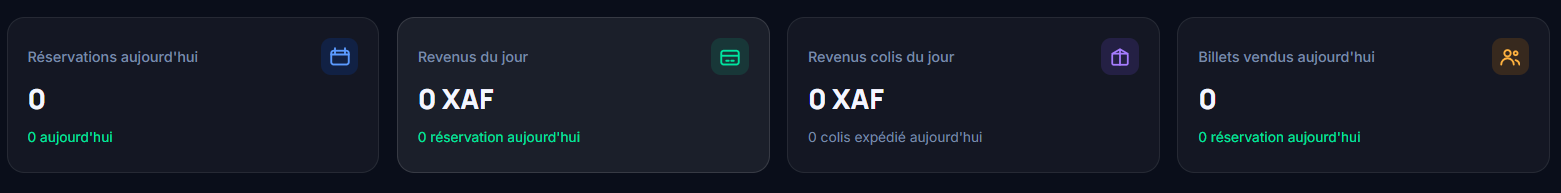
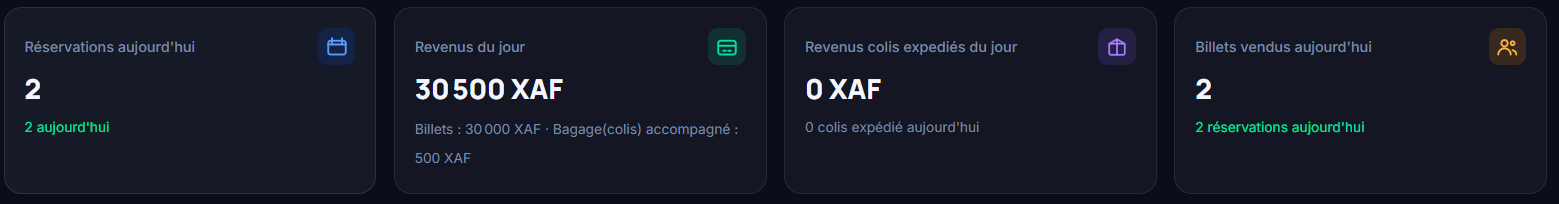
ajout des modifications finales pour capris derbier teste

diff --git a/page-help.js b/page-help.js
@@ -10,7 +10,7 @@ const PAGE_HELP = {
       <ul>
         <li><strong>Réservations aujourd'hui</strong> — nombre de réservations créées aujourd'hui (les annulées ne sont pas comptées).</li>
         <li><strong>Revenus du jour</strong> — total encaissé sur ces réservations du jour.</li>
-        <li><strong>Revenus colis du jour</strong> — total encaissé sur les colis expédiés aujourd'hui, avec le nombre de colis correspondant.</li>
+        <li><strong>Revenus colis expediés du jour</strong> — total encaissé sur les colis expédiés aujourd'hui, avec le nombre de colis correspondant.</li>
         <li><strong>Billets vendus aujourd'hui</strong> — nombre de passagers inclus dans les réservations créées aujourd'hui.</li>
       </ul>
 
@@ -21,7 +21,7 @@ const PAGE_HELP = {
         <span class="guide-img-caption">Exemple des 4 cartes en haut de la page</span>
       </div>
 
-      <p><strong>Dernières réservations</strong> — affiche les 5 réservations confirmées les plus récentes. Un clic dessus ouvre directement son détail. Des alertes s'affichent si un prix a été réduit ou si un passager a été retiré.</p>
+      <p><strong>Dernières réservations</strong> — affiche les 5 réservations confirmées les plus récentes. Un clic dessus ouvre directement son détail complet (organisé en onglets Trajet / Passager(s) / Billet). Des alertes s'affichent si un prix a été réduit ou si un passager a été retiré.</p>
 
       <div class="guide-img-wrap">
         <img src="image-helps/liste-reserve.png" alt="Exemple de la liste des dernières réservations" class="guide-img">
@@ -47,6 +47,95 @@ const PAGE_HELP = {
       </div>
     `
   },
+  'vente-siege': {
+    title: 'Guichet de vente',
+    content: `
+      <p>Cette page permet de <strong>vendre un billet ou d'expédier un colis directement depuis le siège</strong>, sans passer par un point de vente.</p>
+
+      <div class="guide-warning-box">⚠ Contrairement à un PDV, qui ne peut vendre que sur les trajets qui lui sont assignés, le siège a accès à <strong>tous les trajets de l'agence</strong>, sans aucune restriction.</div>
+
+      <p><strong>Deux modes en haut de page :</strong> <strong>Billet</strong> (vendre un passage) et <strong>Colis</strong> (expédier un colis). Le formulaire s'adapte selon le mode choisi.</p>
+
+      <div class="guide-img-wrap">
+        <img src="image-helps/vente-siege-modes-billet-colis.png" alt="Exemple des modes Billet et Colis" class="guide-img">
+        <span class="guide-img-caption">Exemple des deux modes en haut de la page</span>
+      </div>
+
+      <h3>Étape 1 — Point de vente et trajet</h3>
+      <p><strong>Vendre au nom de</strong> — par défaut, la vente est enregistrée comme "Vente directe — Siège". Vous pouvez aussi choisir un PDV existant dans la liste déroulante pour attribuer cette vente à ce point de vente précis (utile si un agent PDV vous appelle pour vendre en son nom, par exemple).</p>
+
+      <div class="guide-img-wrap">
+        <img src="image-helps/vente-siege-pdv-vendeur.png" alt="Exemple du sélecteur PDV vendeur" class="guide-img">
+        <span class="guide-img-caption">Exemple du champ "Vendre au nom de"</span>
+      </div>
+
+      <p><strong>Choisir le trajet</strong> — une barre de recherche permet de filtrer par ville, puis deux boutons permettent de basculer entre trajets <strong>Direct</strong> et <strong>Avec arrêts</strong>. Cliquez sur la carte du trajet souhaité dans la liste qui s'affiche.</p>
+
+      <div class="guide-img-wrap">
+        <img src="image-helps/vente-siege-recherche-trajet.png" alt="Exemple de la recherche et sélection de trajet" class="guide-img">
+        <span class="guide-img-caption">Exemple de la barre de recherche et des cartes de trajets</span>
+      </div>
+
+      <p><strong>Session de départ</strong> — une fois le trajet choisi, la liste des prochains départs disponibles apparaît, avec la date, le bus et les places restantes. Cliquez sur une session pour la sélectionner.</p>
+
+      <div class="guide-warning-box">⚠ Contrairement à un PDV (qui voit un sous-quota de places qui lui est propre), le siège voit toujours le <strong>nombre de places réellement restantes sur tout le bus</strong>, tous vendeurs confondus.</div>
+
+      <div class="guide-img-wrap">
+        <img src="image-helps/vente-siege-sessions-liste.png" alt="Exemple de la liste des sessions disponibles" class="guide-img">
+        <span class="guide-img-caption">Exemple de la liste des sessions de départ disponibles</span>
+      </div>
+
+      <h3>Étape 2 (mode Billet) — Passagers</h3>
+      <p>Ajoutez un ou plusieurs passagers avec le bouton <strong>"Ajouter un passager"</strong>. Pour chaque passager : prénom, nom et type de billet sont obligatoires. Le <strong>téléphone n'est obligatoire que pour le premier passager</strong> (le contact principal de la réservation).</p>
+
+      <div class="guide-img-wrap">
+        <img src="image-helps/vente-siege-passager-form.png" alt="Exemple du formulaire d'un passager" class="guide-img">
+        <span class="guide-img-caption">Exemple du bloc d'informations d'un passager</span>
+      </div>
+
+      <p>En dépliant <strong>"Bagages, siège (facultatif)"</strong> sur chaque passager, vous pouvez renseigner le poids et le nombre de bagages (des frais s'ajoutent automatiquement en cas de dépassement de la limite du trajet), un numéro de siège, et éventuellement un <strong>colis en soute</strong> associé à ce passager (nature, poids, valeur déclarée, prix).</p>
+
+      <div class="guide-img-wrap">
+        <img src="image-helps/vente-siege-bagages-colis-soute.png" alt="Exemple des options bagages et colis en soute" class="guide-img">
+        <span class="guide-img-caption">Exemple des champs bagages et colis en soute dépliés</span>
+      </div>
+
+      <p><strong>Ville de montée et de descente :</strong></p>
+      <ul>
+        <li><strong>Trajet direct</strong> — vous choisissez le PDV d'embarquement et de débarquement parmi ceux assignés au trajet.</li>
+        <li><strong>Trajet avec arrêts</strong> — vous choisissez librement n'importe quel point de montée et de descente parmi le départ, les arrêts et l'arrivée du trajet (le prix se recalcule automatiquement selon le segment parcouru). Un PDV existant à ce point peut être sélectionné, ou laissé comme un lieu libre.</li>
+      </ul>
+
+      <div class="guide-img-wrap">
+        <img src="image-helps/vente-siege-montee-descente-arrets.png" alt="Exemple du choix de montée et descente sur un trajet avec arrêts" class="guide-img">
+        <span class="guide-img-caption">Exemple de la sélection libre montée/descente sur un trajet avec arrêts</span>
+      </div>
+
+      <p>Le <strong>récapitulatif du prix</strong> se met à jour en temps réel en bas du formulaire, passager par passager, jusqu'au total à encaisser. Cliquez sur <strong>"Confirmer la vente"</strong> pour finaliser.</p>
+
+      <div class="guide-img-wrap">
+        <img src="image-helps/vente-siege-recap-prix-billet.png" alt="Exemple du récapitulatif de prix pour un billet" class="guide-img">
+        <span class="guide-img-caption">Exemple du récapitulatif de prix avant confirmation</span>
+      </div>
+
+      <h3>Étape 2 (mode Colis) — Expéditeur, destinataire et colis</h3>
+      <p>Renseignez les coordonnées complètes de l'<strong>expéditeur</strong> et du <strong>destinataire</strong> (nom et téléphone obligatoires pour les deux), puis les détails du colis : nature (obligatoire), poids estimé, valeur déclarée (optionnelle) et prix du transport (obligatoire).</p>
+
+      <div class="guide-img-wrap">
+        <img src="image-helps/vente-siege-colis-form.png" alt="Exemple du formulaire expéditeur, destinataire et colis" class="guide-img">
+        <span class="guide-img-caption">Exemple du formulaire du mode Colis</span>
+      </div>
+
+      <p>Comme pour un billet, vous choisissez le point d'embarquement et de débarquement du colis (PDV ou lieu libre selon le type de trajet). Une fois la vente confirmée, un <strong>code de retrait</strong> est généré — à transmettre au destinataire pour qu'il puisse récupérer le colis à l'arrivée.</p>
+
+      <div class="guide-warning-box">⚠ Après confirmation, le formulaire se réinitialise automatiquement pour une nouvelle vente — pensez à noter ou transmettre le code de retrait affiché avant de continuer.</div>
+
+      <div class="guide-img-wrap">
+        <img src="image-helps/vente-siege-code-retrait.png" alt="Exemple du code de retrait généré après expédition" class="guide-img">
+        <span class="guide-img-caption">Exemple du code de retrait affiché après confirmation d'un colis</span>
+      </div>
+    `
+  },
   reservations: {
     title: 'Réservations',
     content: `
@@ -65,7 +154,12 @@ const PAGE_HELP = {
 
       <p><strong>Deux onglets :</strong></p>
       <ul>
-        <li><strong>Vue d'ensemble</strong> — affiche les alertes de votre réseau (trajets sous-performants, PDV inactifs, annulations récentes, modifications à la baisse non vérifiées) ainsi que des statistiques globales : total réservations, taux d'annulation, PDV vendeurs actifs.</li>
+        <p><strong>Cliquer sur une réservation</strong> ouvre son détail complet, organisé en 3 onglets :</p>
+        <ul>
+          <li><strong>Trajet</strong> — ligne, date, heure, bus, PDV vendeur, date et heure de vente, points d'embarquement/débarquement, statut, et les remarques éventuelles en dessous.</li>
+          <li><strong>Passager(s)</strong> — coordonnées, type de billet, siège, bagages et colis en soute de chaque passager (un bloc par passager si la réservation en compte plusieurs).</li>
+          <li><strong>Billet</strong> — le billet de contrôle, avec un choix entre affichage Code et QR Code, et un bouton pour l'imprimer directement.</li>
+        </ul>
         <li><strong>Détail des réservations</strong> — la liste complète, filtrable, avec des stats sur les billets vendus, les passagers déjà transportés, les passagers retirés et les réservations réaffectées.</li>
       </ul>
 
@@ -151,7 +245,7 @@ const PAGE_HELP = {
       <h4>Les cases à cocher "PDV de départ" et "PDV d'arrivée"</h4>
       <p>Dès que vous avez choisi une ville de départ, une liste de cases à cocher apparaît automatiquement juste en dessous : ce sont <strong>tous les points de vente actifs qui se trouvent dans cette ville</strong>. Il en va de même pour la ville d'arrivée. <strong>Cocher un PDV lui donne le droit de vendre des billets sur ce trajet.</strong> Un PDV non coché ne verra tout simplement pas ce trajet dans son interface de vente, même s'il est situé dans la bonne ville.</p>
 
-      <div class="guide-warning-box">⚠ Un trajet ne peut pas exister sans <strong>au moins un PDV de départ coché</strong>. C'est ce qui permet de vendre des billets depuis la ville de départ. Sans ça, la création est bloquée. Le PDV d'arrivée n'est pas obligatoire, mais sans lui, personne ne pourra vendre de billets retour depuis la ville d'arrivée.</div>
+      <div class="guide-warning-box">⚠ Un trajet ne peut pas exister sans <strong>au moins un PDV de départ</strong> et <strong>au moins un PDV d'arrivée</strong> cochés. C'est ce qui permet de vendre des billets dans les deux sens (aller depuis la ville de départ, retour depuis la ville d'arrivée). Sans l'un des deux, la création est bloquée. Cette exigence ne s'applique qu'à la création — en modifiant un trajet existant, retirer tous les PDV d'arrivée reste possible.</div>
 
       <p>Si aucun PDV n'existe encore dans la ville choisie, la liste affiche un message vous en informant — il faudra d'abord créer un PDV dans cette ville (page "Équipe & PDV") avant de pouvoir continuer.</p>
 
@@ -398,7 +492,7 @@ const PAGE_HELP = {
       <p><strong>3 indicateurs en haut de la liste</strong> (calculés en tâche de fond) :</p>
       <ul>
         <li><strong>PDV actifs</strong> — combien de PDV sur le total peuvent se connecter.</li>
-        <li><strong>À surveiller</strong> — nombre de PDV actifs sans aucune vente depuis 5 jours ou plus. Un clic sur cette carte filtre directement la liste sur ces PDV.</li>
+        <li><strong>À surveiller</strong> — nombre de PDV actifs sans aucune vente depuis 5 jours ou plus. Un clic sur cette carte ouvre une fenêtre listant ces PDV, avec un accès direct au détail de chacun.</li>
         <li><strong>Revenu réseau (mois)</strong> — somme des revenus du mois en cours, tous PDV confondus.</li>
       </ul>
 

diff --git a/pdv-modules/ticket-pdv.js b/pdv-modules/ticket-pdv.js
@@ -140,17 +140,16 @@ export function showTicket(resa, trajet) {
     : `${escapeHtml(resa.prenomPassager)} ${escapeHtml(resa.nomPassager)}`;
 
   body.innerHTML = `
+    ${resa.codeControle ? `
+    <div style="text-align:center;padding:6px 0 18px;border-bottom:1px solid var(--border);margin-bottom:14px;">
+      <div style="font-size:10px;color:var(--muted);text-transform:uppercase;letter-spacing:0.8px;margin-bottom:8px;">Code de vérification</div>
+      <div style="font-family:'Syne',sans-serif;font-size:28px;font-weight:800;letter-spacing:6px;color:var(--white);background:var(--surface2);border:1.5px dashed var(--accent);border-radius:12px;padding:14px 10px;">
+        ${escapeHtml(resa.codeControle)}
+      </div>
+    </div>` : ''}
     <div class="ticket-row">
       <span>Passager${nbPass > 1 ? 's' : ''}</span>
       <strong style="text-align:right;max-width:60%;">${passagersLabel}</strong>
-    </div>
-    <div class="ticket-row">
-      <span>Téléphone</span>
-      <strong>${escapeHtml(resa.telephonePassager || '—')}</strong>
-    </div>
-    <div class="ticket-row">
-      <span>Trajet</span>
-      <strong>${routeAffichee}</strong>
     </div>
     ${nbPass > 1 ? `
     <div class="ticket-row">
@@ -170,7 +169,6 @@ export function showTicket(resa, trajet) {
       <strong>${escapeHtml(resa.heureDepart || '—')}</strong>
     </div>
     ${resa.siege ? `<div class="ticket-row"><span>Siège</span><strong>${escapeHtml(resa.siege)}</strong></div>` : ''}
-    ${resa.codeControle ? `<div class="ticket-row"><span>Code billet</span><strong class="accent" style="letter-spacing:2px;">${escapeHtml(resa.codeControle)}</strong></div>` : ''}
     <div class="ticket-row">
       <span>Total encaissé</span>
       <strong class="accent">${Number(resa.prixTotal).toLocaleString()} XAF</strong>
@@ -258,6 +256,15 @@ export function showManualTicket(resa, trajet) {
           <div style="font-family:'Syne',sans-serif;font-size:18px;font-weight:800;color:#fff;">${routeAffichee}</div>
         </div>
       </div>
+      ${resa.codeControle ? `
+      <div style="padding:0 24px 4px;">
+        <div style="text-align:center;background:var(--surface2);border:1.5px dashed var(--accent);border-radius:14px;padding:16px 18px;">
+          <div style="font-size:10px;color:var(--muted);text-transform:uppercase;letter-spacing:0.8px;margin-bottom:8px;">Code de vérification — à recopier</div>
+          <div style="font-family:'Syne',sans-serif;font-size:26px;font-weight:800;letter-spacing:6px;color:var(--white);">
+            ${escapeHtml(resa.codeControle)}
+          </div>
+        </div>
+      </div>` : ''}
       <div class="ticket-body">
         <div class="ticket-row"><span>Agence</span><strong>${escapeHtml(agenceData?.nom || '—')}</strong></div>
         <div class="ticket-row"><span>Date</span><strong>${dateStr}</strong></div>
@@ -266,7 +273,6 @@ export function showManualTicket(resa, trajet) {
         ${agenceData?.delaiFormalite ? `<div class="ticket-row"><span>Présentation</span><strong>${formatDelaiFormalite(agenceData.delaiFormalite)}</strong></div>` : ''}
         <div class="ticket-row"><span>Passagers</span><strong>${nbPass}</strong></div>
         <div class="ticket-row"><span>Prix</span><strong class="accent">${Number(resa.prixTotal || 0).toLocaleString()} XAF</strong></div>
-        ${resa.codeControle ? `<div class="ticket-row"><span>Code billet</span><strong class="accent" style="letter-spacing:2px;">${escapeHtml(resa.codeControle)}</strong></div>` : ''}
       </div>
       <div class="ticket-actions">
         <button class="ticket-btn-primary" onclick="copierInfosBilletManuel('${resa.id}')">

diff --git a/finances.js b/finances.js
@@ -1,7 +1,7 @@
 // ─── TRAVIO — Finances ───
 
 import { BACKEND, agenceData, resaList, pdvList, trajetList } from './state.js';
-import { loadDeparts, loadAllDeparts } from './trajets.js';
+import { loadDeparts, loadAllDeparts, calculerRevenuColisAccompagne } from './trajets.js';
 import { showToast, TOAST_ICONS } from './toast-utils.js';
 import { apiFetch } from './api.js';
 import { escapeHtml, escapeJsAttr } from './sanitize.js';
@@ -103,7 +103,7 @@ function _renderFinanceColis() {
   container.innerHTML = `
     <div class="stat-card">
       <div class="stat-card-header">
-        <span class="stat-label">Revenu colis</span>
+        <span class="stat-label">Colis expédié</span>
         <div class="stat-icon green">
           <svg width="16" height="16" viewBox="0 0 16 16" fill="none"><rect x="1" y="3" width="14" height="11" rx="2" stroke="currentColor" stroke-width="1.5"/><path d="M1 7h14" stroke="currentColor" stroke-width="1.5"/><path d="M5 11h2M9 11h4" stroke="currentColor" stroke-width="1.5" stroke-linecap="round"/></svg>
         </div>
@@ -840,6 +840,10 @@ export function renderFinancePage() {
 
   const CA      = conf.reduce((s,r) => s + Number(r.prixTotal||0), 0);
   const CAprev  = confPrev.reduce((s,r) => s + Number(r.prixTotal||0), 0);
+  const revenuColisAccompagne     = calculerRevenuColisAccompagne(conf);
+  const revenuColisAccompagnePrev = calculerRevenuColisAccompagne(confPrev);
+  const revenuBilletsSeuls        = CA - revenuColisAccompagne;
+  const revenuBilletsSeulsPrev    = CAprev - revenuColisAccompagnePrev;
   const billetsAnnules     = annulees.reduce((s,r) => s + (Number(r.nbPassagers)||1), 0);
   const billetsAnnulesPrev = resasPrev.filter(r => r.statut === 'annulée').reduce((s,r) => s + (Number(r.nbPassagers)||1), 0);
   const billets = conf.reduce((s,r) => s + (Number(r.nbPassagers)||1), 0) + billetsAnnules;
@@ -871,8 +875,13 @@ export function renderFinancePage() {
 
   const setEl = (id, v) => { const el = document.getElementById(id); if (el) el.innerHTML = v; };
 
-  setEl('finCA',          fmt(CA));
-  setEl('finCAInfo',      cmpHtml(CA, CAprev));
+  setEl('finCA',          fmt(revenuBilletsSeuls));
+  setEl('finCAInfo',
+    `<div>${cmpHtml(revenuBilletsSeuls, revenuBilletsSeulsPrev)}</div>` +
+    (revenuColisAccompagne > 0
+      ? `<div style="color:var(--muted);font-size:10.5px;margin-top:3px;">dont ${fmt(revenuColisAccompagne)} de suppléments bagage(colis) accompagné</div>`
+      : '')
+  );
   setEl('finBillets', billets.toLocaleString());
   setEl('finBilletsInfo', cmpHtml(billets, bilPrev) +
     (billetsAnnules > 0 ? ` <span style="color:#FF4D6A;font-weight:600;">· dont ${billetsAnnules} annulé${billetsAnnules > 1 ? 's' : ''}</span>` : ''));

diff --git a/dashboard.html b/dashboard.html
@@ -697,8 +697,12 @@
           <div>
             <h1 class="page-title" id="venteSiegePageTitle">Vente de billets</h1>
             <p class="page-subtitle">Vente directe depuis le siège — accès à tout le réseau.</p>
+            <button class="page-help-trigger" onclick="openPageHelp('vente-siege')">
+              <span class="page-help-trigger-mark">!</span>
+              <span class="page-help-trigger-label">Comment ça marche ?</span>
+            </button>
 
-            <div class="trajet-type-toggle" style="margin-top:10px;">
+                    <div class="trajet-type-toggle" style="margin-top:10px;">
               <button class="trajet-type-btn active" id="btnModeBilletSiege" onclick="setVenteMode('billet')">
                 <span class="ttb-icon">
                   <svg width="14" height="14" viewBox="0 0 16 16" fill="none"><rect x="2" y="5" width="12" height="9" rx="2" stroke="currentColor" stroke-width="1.5"/><path d="M5 5V4a3 3 0 016 0v1" stroke="currentColor" stroke-width="1.5"/></svg>

diff --git a/trajets.js b/trajets.js
@@ -38,7 +38,7 @@ function toBrazzaDate(isoStr) {
   return new Date(new Date(isoStr).getTime() + OFFSET_MS_BZV).toISOString().split('T')[0];
 }
 
-function calculerRevenuColisAccompagne(resas) {
+export function calculerRevenuColisAccompagne(resas) {
   let total = 0;
   resas.forEach(r => {
     (r.passagers || []).forEach(p => {
@@ -105,7 +105,7 @@ export function updateOverviewStats() {
   const elRevenuDetail = document.getElementById('statRevenuDetail');
   if (elRevenuDetail) {
     elRevenuDetail.textContent =
-      `Billets : ${revenuBilletsSeulsJour.toLocaleString()} XAF · Colis accompagnés : ${revenuColisAccompagneJour.toLocaleString()} XAF`;
+    `Billets : ${revenuBilletsSeulsJour.toLocaleString()} XAF · Bagage(colis) accompagné : ${revenuColisAccompagneJour.toLocaleString()} XAF`;
   }
   const elRevenuDelta = document.getElementById('statRevenuDelta');
   if (elRevenuDelta) elRevenuDelta.textContent = `${resaAujourdhui.length} réservation${resaAujourdhui.length > 1 ? 's' : ''} aujourd'hui`;

diff --git a/reports.js b/reports.js
@@ -519,7 +519,7 @@ async function buildRapportFinancesDoc() {
     doc.setFont('helvetica', 'bold');
     doc.setFontSize(10);
     doc.setTextColor(...NAVY);
-    doc.text('Revenu colis', 52, y + 15);
+    doc.text('Colis expédié', 52, y + 15);
     doc.setFontSize(13);
     doc.setTextColor(...TEAL_DARK);
     doc.text(fmtMontant(colisData.revenuColis), 52, y + 28);
